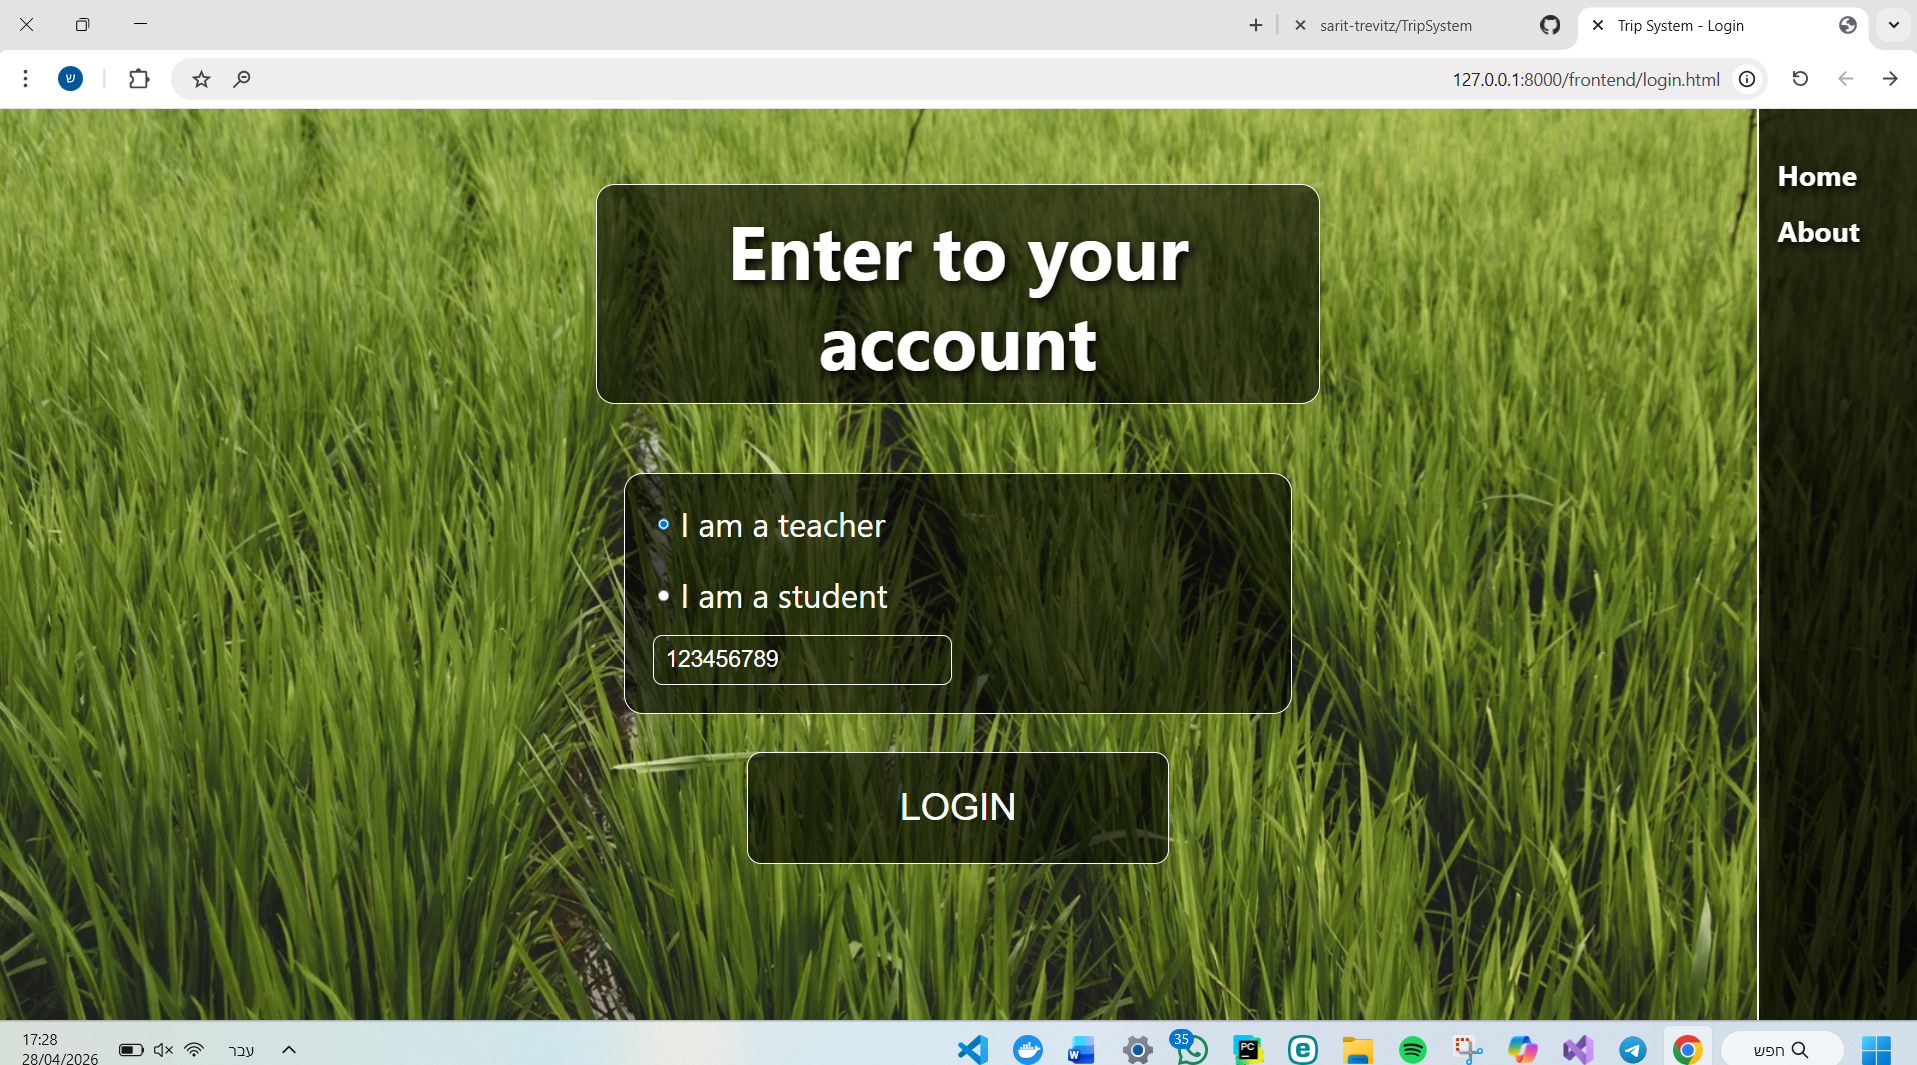
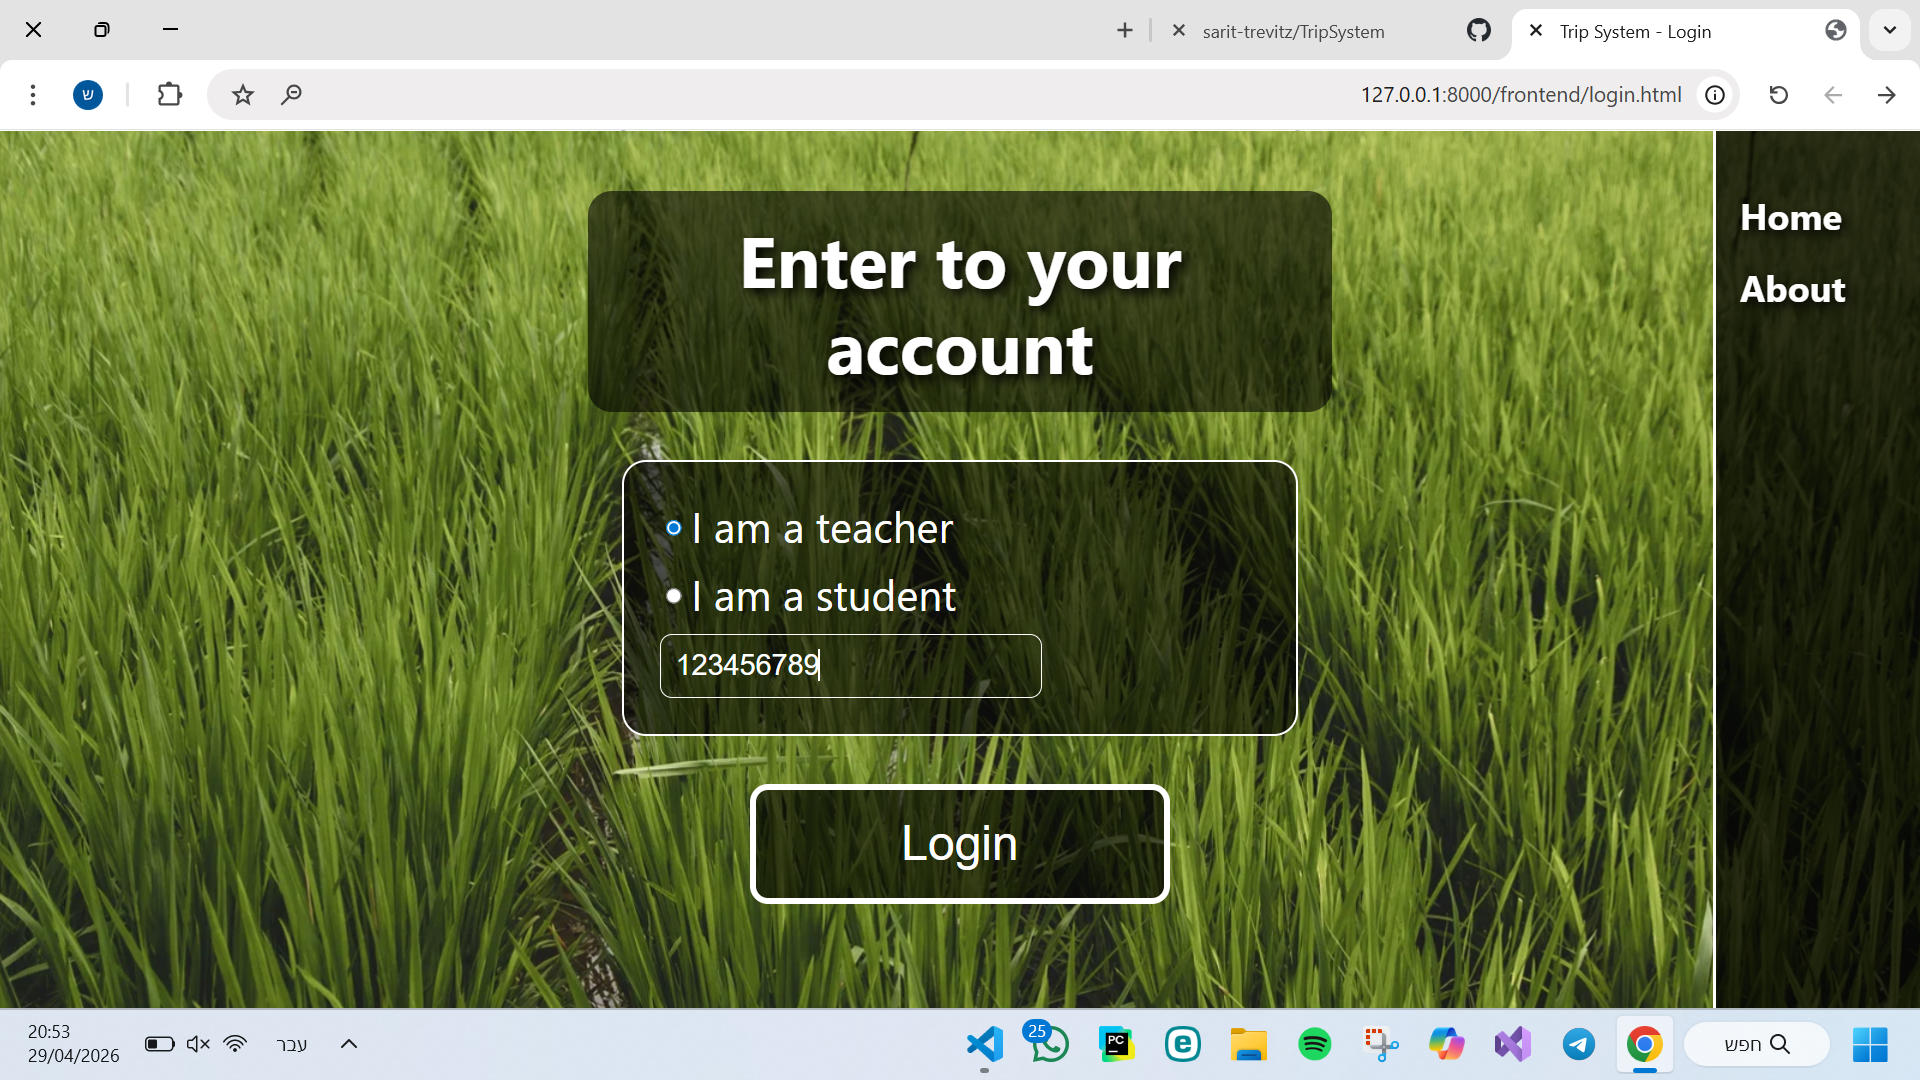
add commands anf fix the code

diff --git a/frontend/style.css b/frontend/style.css
@@ -28,11 +28,10 @@ h1 {
   background: rgba(0, 0, 0, 0.6);
   padding: 20px 60px; /*20- up and down 60-the sides*/
   border-radius: 20px;
-  border: 2px solid white;
-  font-size: 80px;
-  margin-top: 80px;
+  font-size: 60px;
+  margin-top: 50px;
   text-shadow: 4px 4px 10px rgba(0, 0, 0, 1);
-  max-width: 650px;
+  max-width: 500px;
   text-align: center;
   line-height: 1.2;
 }
@@ -143,15 +142,15 @@ h1 {
 .actionbtn {
   background-color: rgba(0, 0, 0, 0.6);
   color: white;
-  border: 2px solid white;
+  border: 5px solid white;
   padding: 15px 30px;
   font-size: 40px;
   border-radius: 15px;
   cursor: pointer;
   transition: all 0.3s ease;
   text-align: center;
-  width: 450px;
-  height: 120px;
+  width: 350px;
+  height: 100px;
 }
 
 .actionbtn:hover {
@@ -170,15 +169,14 @@ h1 {
   display: flex;
   flex-direction: column;
   align-items: flex-start;
-  gap: 20px;
-  margin-top: 20px;
-  width: 650px;
+  gap: 10px;
+  width: 500px;
 }
 
 /*the radio buttons for select the role*/
 .roleSelection {
   display: flex;
-  gap: 30px;
+  gap: 10px;
   color: white;
   font-family: "Segoe UI", sans-serif;
   font-size: 35px;
@@ -190,7 +188,7 @@ h1 {
   cursor: pointer;
   display: flex;
   align-items: center;
-  gap: 8px;
+  gap: 5px;
 }
 .enterbtn {
   margin-top: 40px;
@@ -265,7 +263,6 @@ h1 {
   display: flex;
   flex-direction: column;
   align-items: center;
-  margin-left: -180px;
 }
 .right-side {
   flex: 2.5;
@@ -274,12 +271,12 @@ h1 {
   border-radius: 20px;
   padding: 30px;
   min-height: 500px;
-  max-width: 710px;
+  max-width: 600px;
 }
 
 .actionbtn.map {
   margin-top: 20px;
-  width: 480px;
+
 }
 
 /*************The combobox is the teacher page*************/
@@ -326,7 +323,7 @@ td {
 
 /*the headers*/
 th {
-  background: rgba(76, 175, 80, 0.5);
+  background: #4caf50;
   color: white;
   position: sticky;
   top: 0;

diff --git a/frontend/script.js b/frontend/script.js
@@ -22,11 +22,12 @@ document.addEventListener("DOMContentLoaded", () => {
   const addStudentBtn = document.getElementById("addStudentBtn");
   const addStudentPopup = document.getElementById("addStudentPopup");
   const closeAddStudent = document.getElementById("closeAddStudent");
-
+ // when the user click it seen
   if (addStudentBtn && addStudentPopup) {
     addStudentBtn.onclick = function () {
       addStudentPopup.style.display = "block";
     };
+     //close when click in the X
     if (closeAddStudent)
       closeAddStudent.onclick = function () {
         addStudentPopup.style.display = "none";
@@ -87,7 +88,7 @@ document.addEventListener("DOMContentLoaded", () => {
 
   // The login button
   const loginBtn = document.querySelector(".actionbtn.enterbtn");
-  if (loginBtn && loginBtn.innerText.includes("LOGIN")) {
+  if (loginBtn && loginBtn.innerText.includes("Login")) {
     loginBtn.onclick = async (event) => {
       event.preventDefault();
 
@@ -170,7 +171,7 @@ document.addEventListener("DOMContentLoaded", () => {
           container.innerHTML = "<p>Loading data...</p>";
 
           try {
-            //the teacher id fir the table of just her student
+            //the teacher id if the table of just her student
             const response = await fetch(
               `/get_table_data?type=${choice}&teacher_id=${data.id}`,
             );

diff --git a/frontend/map.js b/frontend/map.js
@@ -42,7 +42,7 @@ async function loadStudentLocations() {
             loc.longitude,
           );
           if (distance > 3) {
-            popupContent = `<b style="color:red;">WARNING: Student ${loc.student_id} is too far!</b>`;
+            popupContent = `<b style="color:red;">WARNING: Student ${loc.student_id} is far away!</b>`;
           } else {
             popupContent = `<b>Student ID:</b> ${loc.student_id}`;
           }
@@ -56,8 +56,10 @@ async function loadStudentLocations() {
     console.error("Error loading locations:", error);
   }
 }
+
+// Calculate the air distance between two points using the Haversine formula
 function calculateAirDistance(lat1, lon1, lat2, lon2) {
-  const R = 6371; 
+  const R = 6371; // Earth's radius in kilometers
   const dLat = (lat2 - lat1) * (Math.PI / 180);
   const dLon = (lon2 - lon1) * (Math.PI / 180);
   const a =
@@ -67,6 +69,7 @@ function calculateAirDistance(lat1, lon1, lat2, lon2) {
       Math.sin(dLon / 2) *
       Math.sin(dLon / 2);
   const c = 2 * Math.atan2(Math.sqrt(a), Math.sqrt(1 - a));
+  //return the distance in kilometers
   return R * c;
 }
 loadStudentLocations();

diff --git a/frontend/teacherPage.html b/frontend/teacherPage.html
@@ -38,11 +38,7 @@
             </div>
           </div>
 
-          <button
-            class="actionbtn map"
-            onclick="window.location.href = '/frontend/map.html'"
-          >
-            MAP
+  
           </button>
           <button class="actionbtn map" id="addStudentBtn">Add student</button>
         </div>

diff --git a/frontend/login.html b/frontend/login.html
@@ -27,7 +27,7 @@
           <input type="text" id="user-id" placeholder="Enter your ID" />
         </div>
       </div>
-      <button class="actionbtn enterbtn">LOGIN</button>
+      <button class="actionbtn enterbtn">Login</button>
     </div>
 
     <div id="aboutPopup" class="popup">

diff --git a/frontend/register.html b/frontend/register.html
@@ -12,7 +12,7 @@
       <button id="aboutBtn" class="navLinkItem">About</button>
     </div>
     <div class="background">
-      <h1>Register an account</h1>
+      <h1>Register</h1>
       <div class="detailcontainer">
         <div class="roleSelection">
           <label>

diff --git a/frontend/map.html b/frontend/map.html
@@ -14,9 +14,7 @@
         </button>
         <h2 style="color: white;">Students map</h2>
     </nav>
-
     <div id="map"></div>
-
     <script src="https://unpkg.com/leaflet@1.9.4/dist/leaflet.js"></script>
     <script src="/frontend/map.js"></script>
 </body>

diff --git a/backend/main.py b/backend/main.py
@@ -21,7 +21,6 @@ app.mount("/frontend", StaticFiles(directory=frontend_path), name="frontend")
 @app.get("/")
 def read_root_home():
     return FileResponse(os.path.join(frontend_path, "index.html"))
-    #return {"message": "Trip System API is running!"}  
 
 # Helper function for managing the database connection: opens a connection and closes it when the operation is complete
 def get_db():

diff --git a/README.md b/README.md
@@ -74,17 +74,25 @@ _Launch steps:_
 1. _Extract the project:_ Extract the solution ZIP file.
 
 
-
-2. _Install libraries:_ pip install fastapi uvicorn sqlalchemy.
-
+2. _Virtual Environment:_-
 
 
-3. _Launch:_ uvicorn main:app --reload.
+ Create a virtual environment: python -m venv venv
 
 
+ Activate the environment: venv\Scripts\activate
 
-4. _Access:_ Go to http://127.0.0.1:8000.
 
+3. _Install libraries:_ pip install fastapi uvicorn sqlalchemy.
+
+
+4. _Navigate to backend:_ cd backend
+
+
+5. _Launch:_ uvicorn main:app --reload.
+
+
+6. _Access:_ Go to http://127.0.0.1:8000.
 
 
 ## **Project Assumptions**
